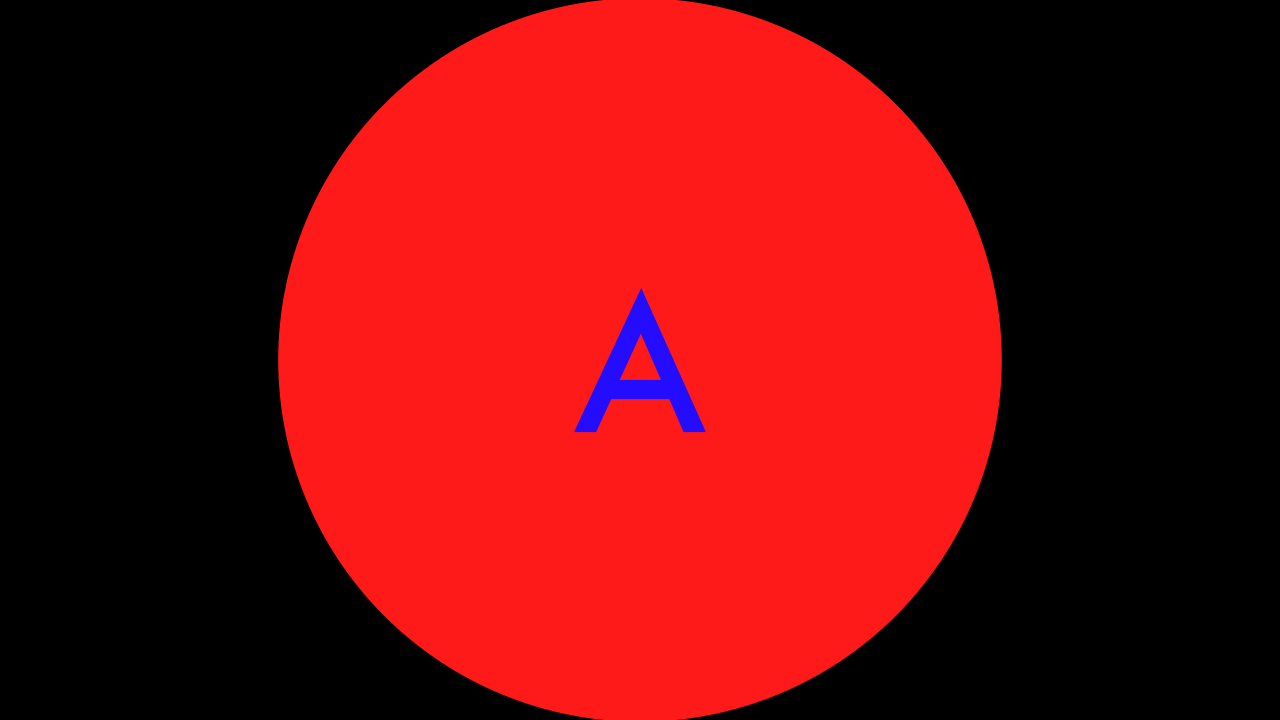
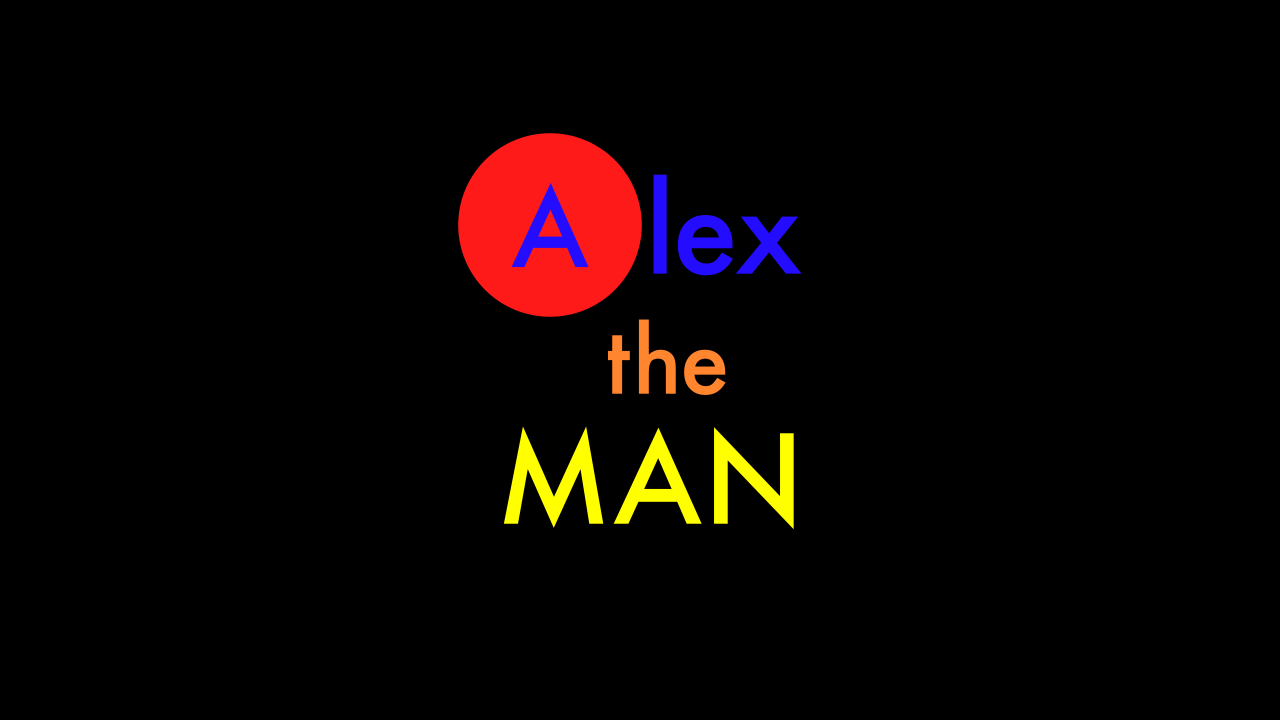
Created profile picture

diff --git a/profile-picture.py b/profile-picture.py
@@ -3,7 +3,17 @@ from manim import *
 # manim profile-picture.py -qm ProfilePicture
 class ProfilePicture(Scene):
     def construct(self):
-        circle = Circle(radius=4, color="#FF1A1A").set_opacity(1)
-        capital_a = Text("A", color="#240CFF", font="Futura").scale(3)
+        circle_with_a = VGroup(Circle(radius=2, color="#FF1A1A").set_opacity(1), Text("A", color="#240CFF", font="Futura").scale(3.5)).move_to([-1,1.5,0]).scale(0.5)
 
-        self.add(circle, capital_a)
+        lex = Text("lex", color="#240CFF", font="Futura").scale(2).next_to(circle_with_a, RIGHT, buff=0.15)
+
+        the = Text("the", color=ORANGE, font="Futura").scale(1.5).next_to(VGroup(circle_with_a, lex), DOWN).shift(0.4*RIGHT+0.2*UP)
+
+        man = Text("MAN", color=YELLOW, font="Futura").scale(2).next_to(the, DOWN).shift(0.2*LEFT+0.1*DOWN)
+
+        self.add(
+            # NumberPlane(axis_config={"include_numbers":True}), 
+            circle_with_a, 
+            lex, 
+            the, 
+            man)

diff --git a/media/Tex/2b7ffb3c38a5a6e0.tex b/media/Tex/2b7ffb3c38a5a6e0.tex
@@ -1,0 +1,9 @@
+\documentclass[preview]{standalone}
+\usepackage[english]{babel}
+\usepackage{amsmath}
+\usepackage{amssymb}
+\begin{document}
+\begin{align*}
+2
+\end{align*}
+\end{document}

diff --git a/media/Tex/31d3165490bf3404.tex b/media/Tex/31d3165490bf3404.tex
@@ -1,0 +1,9 @@
+\documentclass[preview]{standalone}
+\usepackage[english]{babel}
+\usepackage{amsmath}
+\usepackage{amssymb}
+\begin{document}
+\begin{align*}
+4
+\end{align*}
+\end{document}

diff --git a/media/Tex/5683d89f396abe50.tex b/media/Tex/5683d89f396abe50.tex
@@ -1,0 +1,9 @@
+\documentclass[preview]{standalone}
+\usepackage[english]{babel}
+\usepackage{amsmath}
+\usepackage{amssymb}
+\begin{document}
+\begin{align*}
+5
+\end{align*}
+\end{document}

diff --git a/media/Tex/6ecf9f51170c1a70.tex b/media/Tex/6ecf9f51170c1a70.tex
@@ -1,0 +1,9 @@
+\documentclass[preview]{standalone}
+\usepackage[english]{babel}
+\usepackage{amsmath}
+\usepackage{amssymb}
+\begin{document}
+\begin{align*}
+1
+\end{align*}
+\end{document}

diff --git a/media/Tex/810c550cdbbf29da.tex b/media/Tex/810c550cdbbf29da.tex
@@ -1,0 +1,9 @@
+\documentclass[preview]{standalone}
+\usepackage[english]{babel}
+\usepackage{amsmath}
+\usepackage{amssymb}
+\begin{document}
+\begin{align*}
+7
+\end{align*}
+\end{document}

diff --git a/media/Tex/8de07035cb22c903.tex b/media/Tex/8de07035cb22c903.tex
@@ -1,0 +1,9 @@
+\documentclass[preview]{standalone}
+\usepackage[english]{babel}
+\usepackage{amsmath}
+\usepackage{amssymb}
+\begin{document}
+\begin{align*}
+3
+\end{align*}
+\end{document}

diff --git a/media/Tex/b330e3953bf029d7.tex b/media/Tex/b330e3953bf029d7.tex
@@ -1,0 +1,9 @@
+\documentclass[preview]{standalone}
+\usepackage[english]{babel}
+\usepackage{amsmath}
+\usepackage{amssymb}
+\begin{document}
+\begin{align*}
+6
+\end{align*}
+\end{document}

diff --git a/media/Tex/ba96de15f98acfc8.tex b/media/Tex/ba96de15f98acfc8.tex
@@ -1,0 +1,9 @@
+\documentclass[preview]{standalone}
+\usepackage[english]{babel}
+\usepackage{amsmath}
+\usepackage{amssymb}
+\begin{document}
+\begin{align*}
+-
+\end{align*}
+\end{document}
